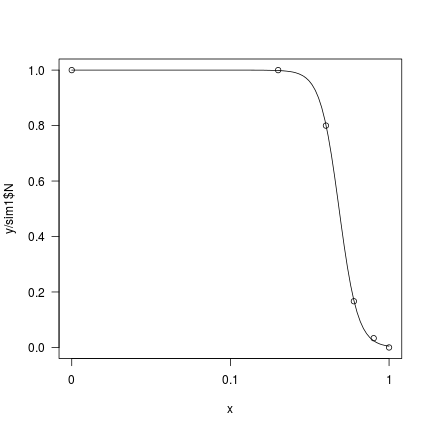
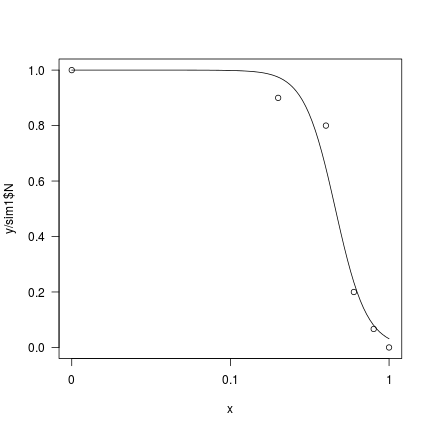
minor edit

Changed region(s): [[0.6921, 0.2106, 0.9028, 0.8125], [0.4815, 0.1505, 0.6921, 0.2106], [0.6319, 0.2106, 0.662, 0.2407]]

diff --git a/_posts/2016-06-14-lc50_bias_sim.md b/_posts/2016-06-14-lc50_bias_sim.md
@@ -112,18 +112,14 @@ plot(mod)
 ![plot of chunk drc_ex1](/figures/drc_ex1-1.png)
 
 {% highlight r %}
-ED(mod, 50, interval = 'fls')
+exp(ED(mod, 50, display = FALSE))
 {% endhighlight %}
 
 
 
 {% highlight text %}
-## 
-## Estimated effective doses
-## (Back-transformed from log scale-based confidence interval(s))
-## 
-##      Estimate Lower Upper
-## 1:50    0.484 0.444  0.53
+##      Estimate Std. Error
+## 1:50  0.45869     1.0612
 {% endhighlight %}
  
 We see that the simulated data corresponds to the $EC_{50}$ we aimed to simulate (=0.5).
